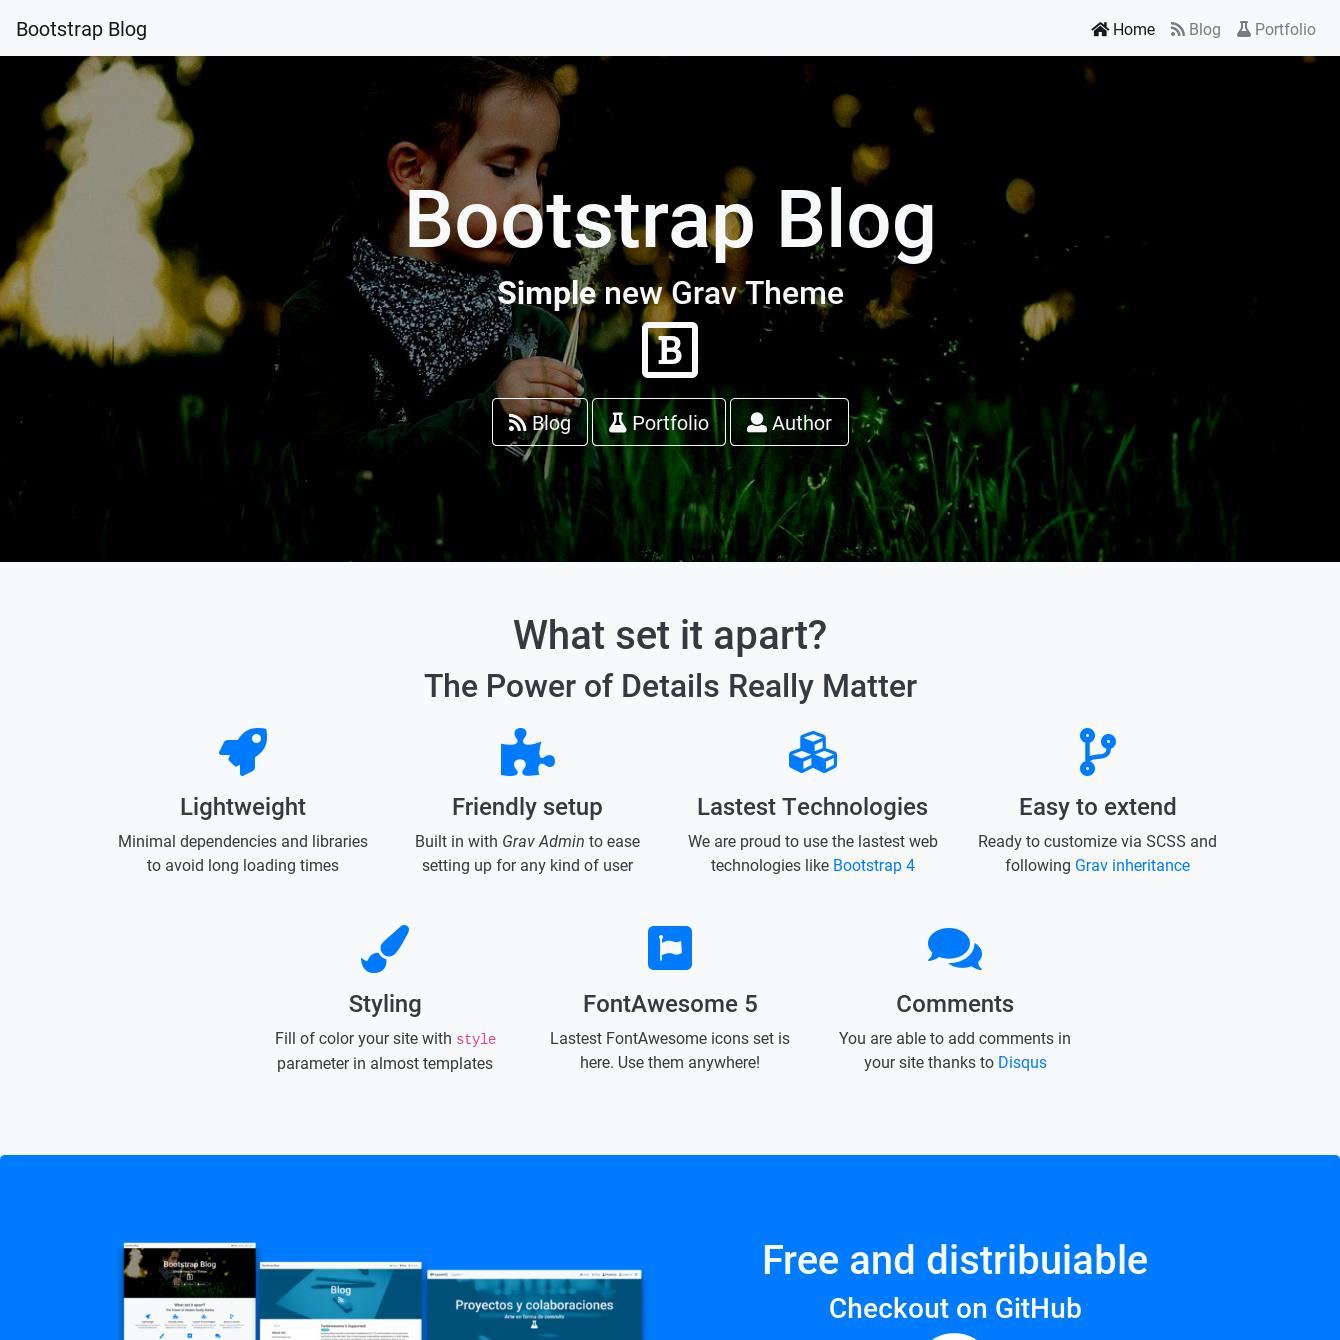
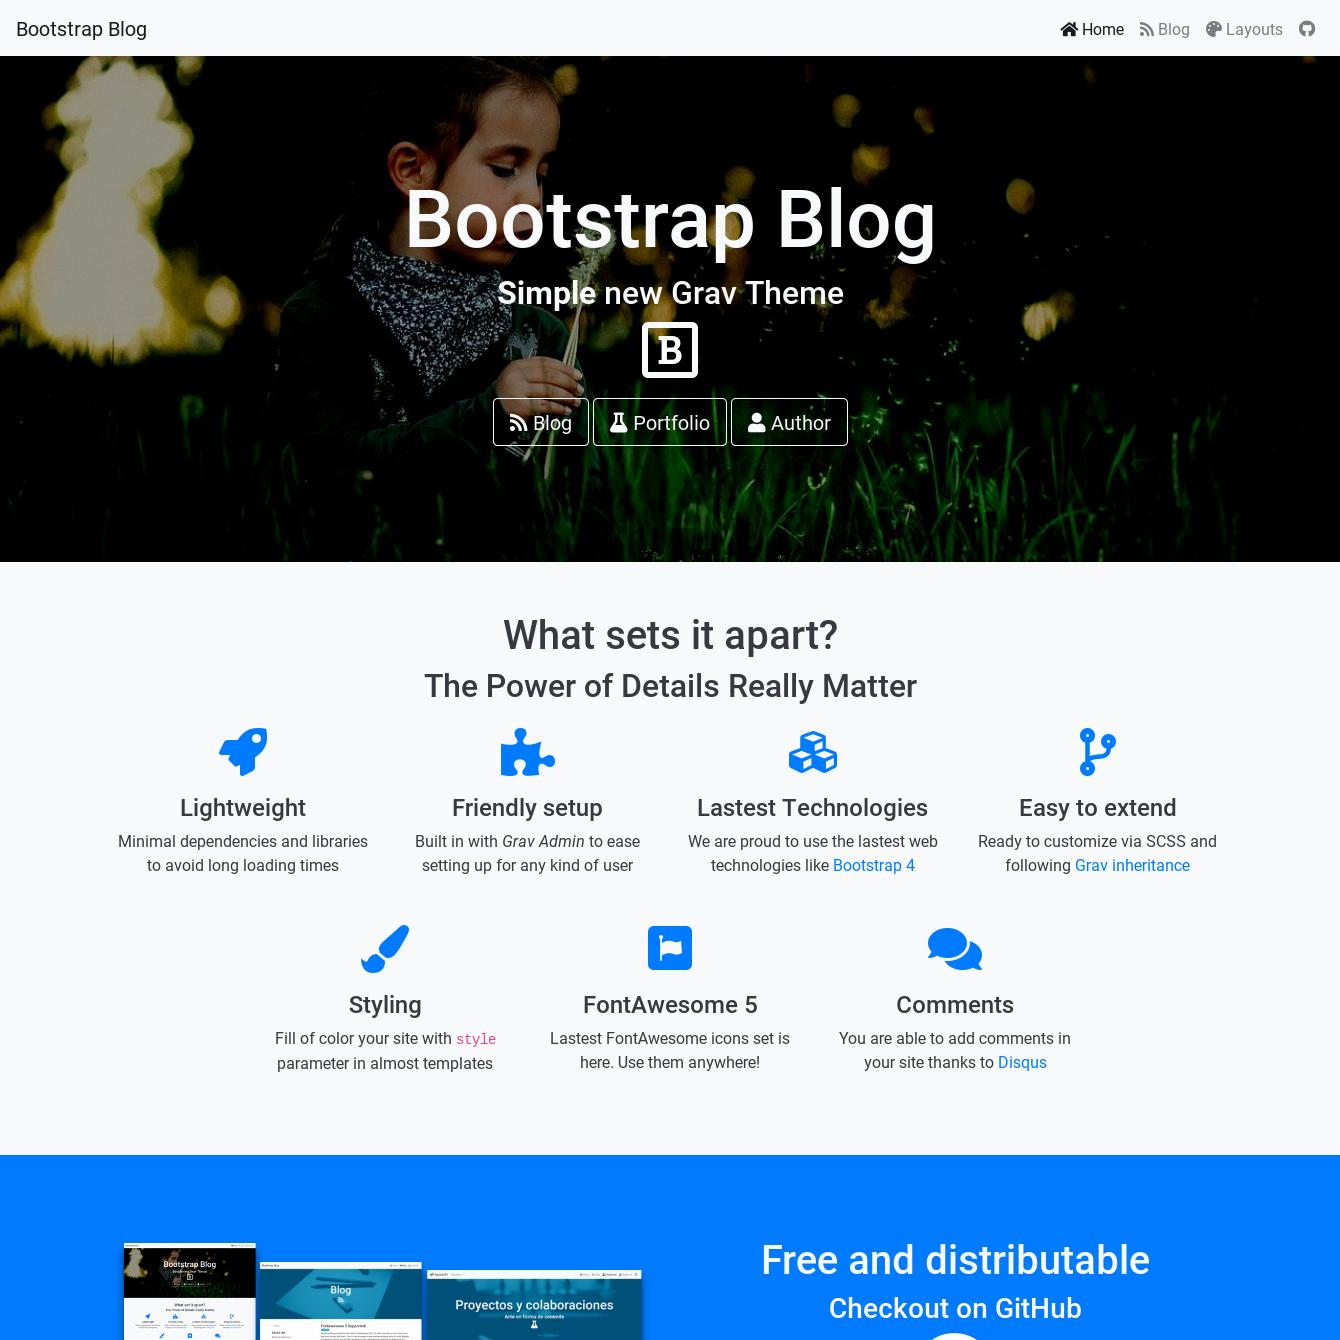
Updated changelog and screenshots

diff --git a/CHANGELOG.md b/CHANGELOG.md
@@ -1,10 +1,14 @@
 # v1.1
 ### 25-06-2018
 
-1. [](#improved)
+1. [](#new)
+  * Added go to top button
+2. [](#improved)
   * Merge portfolio and blog layouts
-  * Added `info` style
+  * Added info style
   * Now dateformat comes from Grav System Config
+3. [](#bugfix)
+  * Fixed navbar image
 
 # v1.0
 ##  02-06-2018
